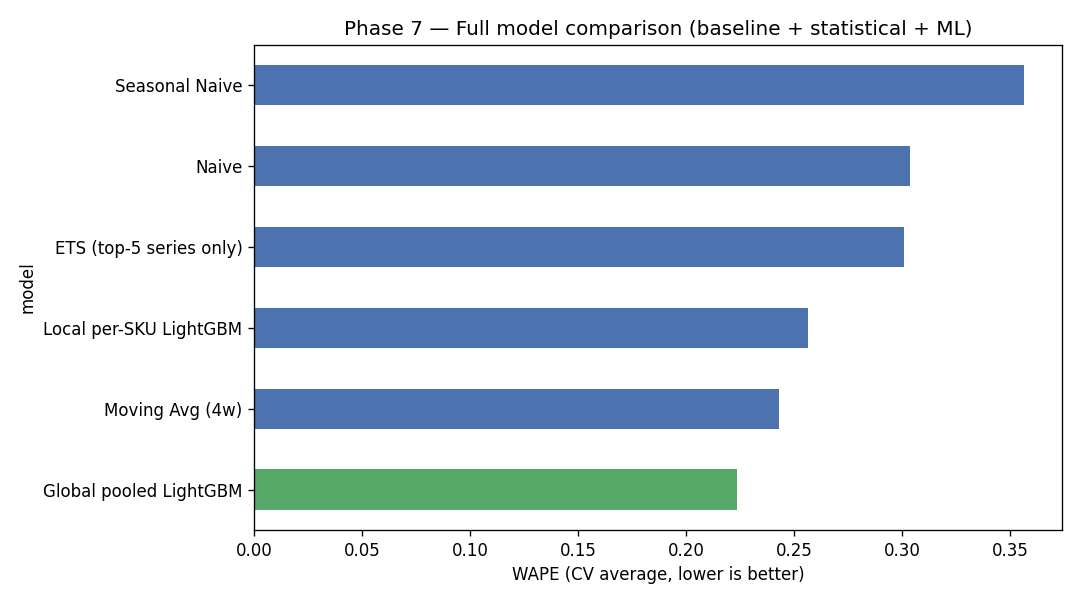
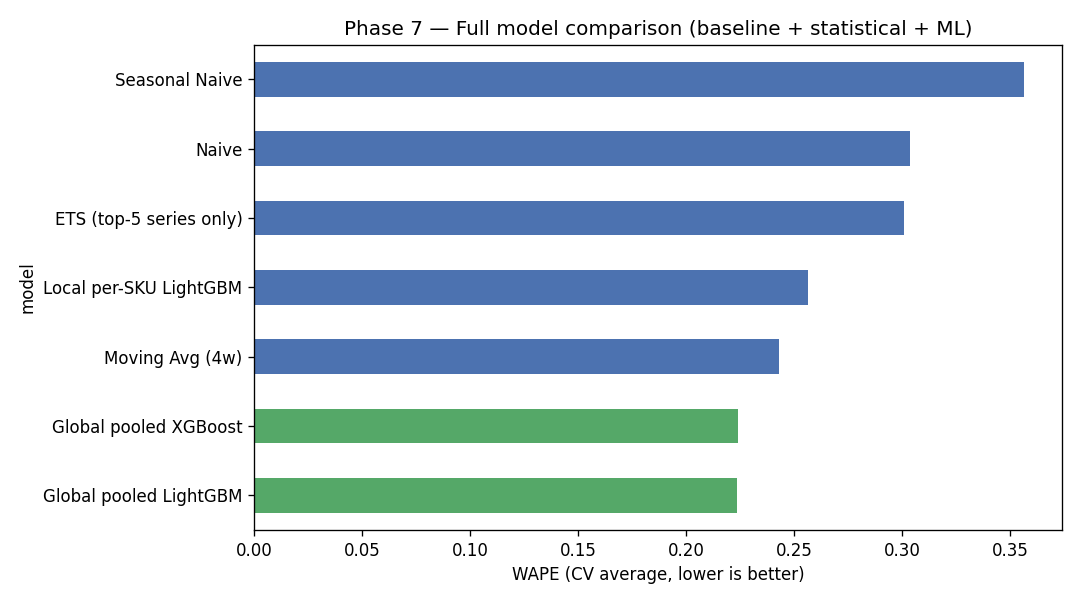
Add Global pooled XGBoost

diff --git a/src/models/forecast.py b/src/models/forecast.py
@@ -1,4 +1,5 @@
-"""Core forecasting models (Phase 7): global pooled LightGBM, local per-SKU LightGBM.
+"""Core forecasting models (Phase 7): global pooled LightGBM, local per-SKU LightGBM,
+global pooled XGBoost.
 
 Feature/label split is centralized here so Phase 10 (cold-start) and Phase 11
 (ablation) reuse the exact same column bookkeeping instead of redefining it.
@@ -7,6 +8,7 @@ Feature/label split is centralized here so Phase 10 (cold-start) and Phase 11
 import lightgbm as lgb
 import numpy as np
 import pandas as pd
+import xgboost as xgb
 
 TARGET = "target_next_week"
 
@@ -106,6 +108,51 @@ def predict_lgb(model: lgb.LGBMRegressor, df: pd.DataFrame, feature_cols: list =
     feature_cols = feature_cols or ALL_FEATURE_COLS
     X = make_lgb_frame(df, feature_cols)
     return model.predict(X)
+
+
+DEFAULT_XGB_PARAMS = dict(
+    objective="reg:absoluteerror",
+    n_estimators=300,
+    learning_rate=0.05,
+    max_depth=6,
+    min_child_weight=20,
+    tree_method="hist",
+    enable_categorical=True,
+    random_state=42,
+)
+
+
+def fit_predict_xgb(
+    train_df: pd.DataFrame,
+    val_df: pd.DataFrame,
+    feature_cols: list = None,
+    params: dict = None,
+) -> np.ndarray:
+    """Train one XGBoost regressor on train_df, return predictions for val_df.
+
+    Mirrors fit_predict_lgb: same feature/categorical handling (native categorical
+    support via enable_categorical, no one-hot), same global-pooled training scheme.
+    """
+    feature_cols = feature_cols or ALL_FEATURE_COLS
+    params = {**DEFAULT_XGB_PARAMS, **(params or {})}
+
+    X_train = make_lgb_frame(train_df, feature_cols)
+    y_train = train_df[TARGET].values
+    X_val = make_lgb_frame(val_df, feature_cols)
+
+    model = xgb.XGBRegressor(**params)
+    model.fit(X_train, y_train)
+    return model.predict(X_val)
+
+
+def fit_xgb(train_df: pd.DataFrame, feature_cols: list = None, params: dict = None) -> xgb.XGBRegressor:
+    feature_cols = feature_cols or ALL_FEATURE_COLS
+    params = {**DEFAULT_XGB_PARAMS, **(params or {})}
+    X_train = make_lgb_frame(train_df, feature_cols)
+    y_train = train_df[TARGET].values
+    model = xgb.XGBRegressor(**params)
+    model.fit(X_train, y_train)
+    return model
 
 
 def fit_predict_local_per_sku(train_df: pd.DataFrame, val_df: pd.DataFrame, feature_cols: list = None) -> np.ndarray:
